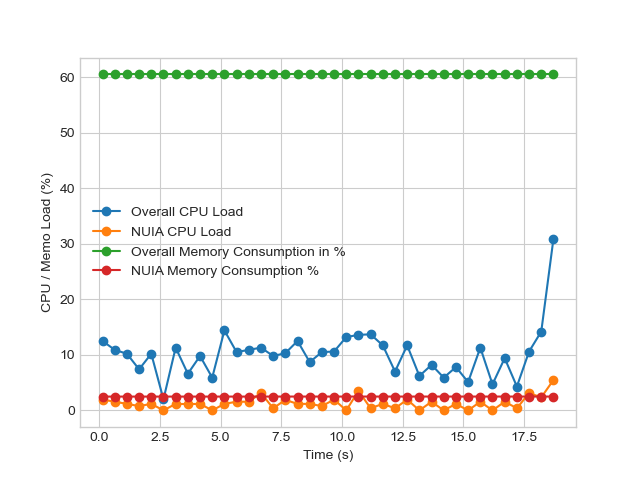
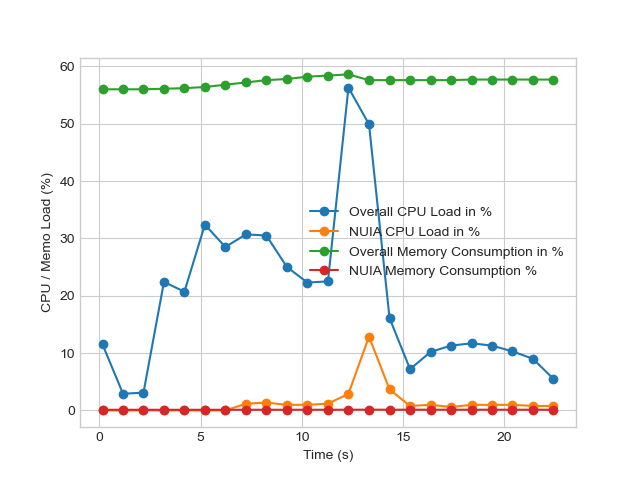
add tokenizer to whitelist

diff --git a/performanceTool.py b/performanceTool.py
@@ -20,7 +20,7 @@ import time
 
 import multiprocessing
 import threading
-from scipy.integrate._ivp.radau import TI
+#from scipy.integrate._ivp.radau import TI
 
 multiprocessing.freeze_support() #workaround because if you do a py to exe, this bit goes in an infinite loop
 
@@ -93,8 +93,8 @@ class processMonitor():
                 
         try: self.pid=ls[0].pid
         except:
-             print(' NUIA is not running, start NUIA')
-             sys.exit()
+            print(' NUIA is not running, start NUIA')
+            sys.exit()
     
     def processor_info(self):
         #returns properties of cpu
@@ -111,27 +111,15 @@ class processMonitor():
     def memo_util(self):  
         #return memo utilitzation
         print("rrs")
-       
-def a():
-    print("Function a is running at time: " + str(int(time.time())) + " seconds.")
-    x=1+2;
-    
-    
-def b():
-    print("Function b is running at time: " + str(int(time.time())) + " seconds.")
-    y=2+2;
-    z=3-4
-    for i in range(100):
-        z=z+1
-    
+
 def maketotCpuArray(p,totCpuArr):
-    totCpuArr.append(psutil.cpu_percent(interval=0.5,percpu=False))
+    totCpuArr.append(psutil.cpu_percent(interval=1,percpu=False))
 
 #    return totCpuArr
 
 def makeprocCpuArray(p,procCpuArr):
 
-    procCpuArr.append(p.cpu_percent(interval=0.5)/psutil.cpu_count())
+    procCpuArr.append(p.cpu_percent(interval=1)/psutil.cpu_count())
     
 class loadStats():    
     def __init__(self,procObj):
@@ -146,7 +134,7 @@ class loadStats():
         
         start_time=time.time()
 
-        print("******************* Started Logging CPU/Memo laods !!, Hold q to Exit *****************")
+        print("******************* Started Logging CPU/Memo loads !!, Hold q to Exit *****************")
         procCpuArr=[]
         totCpuArr=[]
         procMemArr=[]
@@ -156,28 +144,24 @@ class loadStats():
     
             try:
                 if keyboard.is_pressed('q'):  # if key 'q' is pressed 
-                   raise KeyboardInterrupt
+                    raise KeyboardInterrupt
 #                 current_time = time.time()
 #                 elapsed_time = current_time - start_time
     #             print(psutil.cpu_percent(interval=1,percpu=False))
-                print("\nohne threading")
-                b();
-                a();
+
 #               threading.Thread(target=a).start()#for checking threading
 #                threading.Thread(target=b).start()
 
                 timeArr.append(time.time()-start_time)
 
 #                threading.Thread(target=print((psutil.cpu_percent(interval=None,percpu=True)))).start()
-#                 time.sleep(0.25) 
+#                 time.sleep(0.5) 
                 p1 = threading.Thread(target=makeprocCpuArray,args=(p, procCpuArr))
                 p1.start()
                 p2 = threading.Thread(target=maketotCpuArray,args=(p,totCpuArr))
                 p2.start()
                 p1.join()
                 p2.join()
-#                threading.Thread(target=makeprocCpuArray,args=(p, procCpuArr)).start()
-#                threading.Thread(target=maketotCpuArray,args=(p,totCpuArr)).start()
 #                totCpuArr.append(psutil.cpu_percent(interval=None,percpu=False))
 #                procCpuArr.append(p.cpu_percent(interval=0.5)/psutil.cpu_count())
 
@@ -196,9 +180,9 @@ class loadStats():
             except KeyboardInterrupt:
                 print('Exitting Program Now !!')
                 break;
-#            except: #catchall exception
-#                print("Program not running anymore or exitted prematurely ! ")
-#                break;
+            except: #catchall exception
+                print("Program not running anymore or exitted prematurely ! ")
+                break;
     #         raise KeyboardInterrupt 
     #        print("keyboard CAUGHT!!!")
         #for Item in procCpuArr: print(Item.rjust(8), sep='/n')
@@ -228,21 +212,21 @@ print(x.pid)
 
 y=loadStats(x);
 z=y.getAllLoadStats(x)
-print("Overall CPU Load : ")
+print("Overall CPU Load in %: ")
 print(z.overallCpu);
-print("NUIA CPU Load : ")
+print("NUIA CPU Load in %: ")
 print(z.procCpu);
-print("Overall Memo Load : ")
+print("Overall Memo Load in %: ")
 print(z.overallMemo);
-print("NUIA Memo Load : ")
+print("NUIA Memo Load in %: ")
 print(z.procMemo)
 print("Time axis (in seconds) ")
 print(z.timeArr)
 
 pprint_ntuple(psutil.virtual_memory())
 
-print("\nAverage Overall CPU load %f"%np.mean(z.overallCpu))
-print("Average NUIA CPU load %f"%np.mean(z.procCpu))
+print("\nAverage Overall CPU load %f %%"%np.mean(z.overallCpu))
+print("Average NUIA CPU load %f %%"%np.mean(z.procCpu))
 
 print("\nLength of overall cpu load = %d "%len(z.overallCpu)) 
 print("Length of process cpu load = %d "%len(z.procCpu)) 
@@ -254,11 +238,12 @@ print("Length of time array = %d "%len(z.timeArr))
 # print(t)
 
 
-input("Press ENTER to show GRAPH !")
+#input("Press ENTER to show GRAPH !")
+print("Plotting graphs now!! ************ Exporting console log to 'logfile.log' ***********")
 plt.style.use('seaborn-whitegrid')
 
-plt.plot(z.timeArr, z.overallCpu, marker='o',label='Overall CPU Load');
-plt.plot(z.timeArr, z.procCpu, marker='o',label='NUIA CPU Load');
+plt.plot(z.timeArr, z.overallCpu, marker='o',label='Overall CPU Load in %');
+plt.plot(z.timeArr, z.procCpu, marker='o',label='NUIA CPU Load in %');
 
 plt.plot(z.timeArr, z.overallMemo, marker='o',label='Overall Memory Consumption in %');
 plt.plot(z.timeArr, z.procMemo, marker='o',label='NUIA Memory Consumption %');
@@ -272,18 +257,10 @@ plt.show()
 
 
 #plt.close('all')
-input("Press ENTER to exit !")
+#input("Press ENTER to exit !")
 sys.stdout.log.close()
 # sys.stdout.close()
 
-
-
-
-# print(psutil.process_iter(attrs, ad_value))
-# print(x.cpu_nums);
-# print(x.memo)
-
-# Performance Metric: Something that involves cpu usage, memo usage, overall cpu spikes
 
 
 class generateGraph(): #generate graph from loadStatObj which has all the load stats, refer to the tanzeel bhatti docu

diff --git a/test_graph.py b/test_graph.py
@@ -1,0 +1,98 @@
+import math
+
+import matplotlib.pyplot as plt
+
+class AnnoteFinder(object):
+    """callback for matplotlib to display an annotation when points are
+    clicked on.  The point which is closest to the click and within
+    xtol and ytol is identified.
+    
+    Register this function like this:
+    
+    scatter(xdata, ydata)
+    af = AnnoteFinder(xdata, ydata, annotes)
+    connect('button_press_event', af)
+    """
+
+    def __init__(self, xdata, ydata, annotes, ax=None, xtol=None, ytol=None):
+        self.data = list(zip(xdata, ydata, annotes))
+        if xtol is None:
+            xtol = ((max(xdata) - min(xdata))/float(len(xdata)))/2
+        if ytol is None:
+            ytol = ((max(ydata) - min(ydata))/float(len(ydata)))/2
+        self.xtol = xtol
+        self.ytol = ytol
+        if ax is None:
+            self.ax = plt.gca()
+        else:
+            self.ax = ax
+        self.drawnAnnotations = {}
+        self.links = []
+
+    def distance(self, x1, x2, y1, y2):
+        """
+        return the distance between two points
+        """
+        return(math.sqrt((x1 - x2)**2 + (y1 - y2)**2))
+
+    def __call__(self, event):
+
+        if event.inaxes:
+
+            clickX = event.xdata
+            clickY = event.ydata
+            if (self.ax is None) or (self.ax is event.inaxes):
+                annotes = []
+                # print(event.xdata, event.ydata)
+                for x, y, a in self.data:
+                    # print(x, y, a)
+                    if ((clickX-self.xtol < x < clickX+self.xtol) and
+                            (clickY-self.ytol < y < clickY+self.ytol)):
+                        annotes.append(
+                            (self.distance(x, clickX, y, clickY), x, y, a))
+                if annotes:
+                    annotes.sort()
+                    distance, x, y, annote = annotes[0]
+                    self.drawAnnote(event.inaxes, x, y, annote)
+                    for l in self.links:
+                        l.drawSpecificAnnote(annote)
+
+    def drawAnnote(self, ax, x, y, annote):
+        """
+        Draw the annotation on the plot
+        """
+        if (x, y) in self.drawnAnnotations:
+            markers = self.drawnAnnotations[(x, y)]
+            for m in markers:
+                m.set_visible(not m.get_visible())
+            self.ax.figure.canvas.draw_idle()
+        else:
+            t = ax.text(x, y, " - %s" % (annote),)
+            m = ax.scatter([x], [y], marker='d', c='r', zorder=100)
+            self.drawnAnnotations[(x, y)] = (t, m)
+            self.ax.figure.canvas.draw_idle()
+
+    def drawSpecificAnnote(self, annote):
+        annotesToDraw = [(x, y, a) for x, y, a in self.data if a == annote]
+        for x, y, a in annotesToDraw:
+            self.drawAnnote(self.ax, x, y, a)
+
+
+def onclick(event):
+    print('%s click: button=%d, x=%d, y=%d, xdata=%f, ydata=%f' %
+          ('double' if event.dblclick else 'single', event.button,
+           event.x, event.y, event.xdata, event.ydata))
+
+
+x = range(10)
+y = range(10)
+annotes = ['a', 'b', 'c', 'd', 'e', 'f', 'g', 'h', 'i', 'j']
+
+fig, ax = plt.subplots()
+ax.scatter(x,y)
+af =  AnnoteFinder(x,y, annotes, ax=ax)
+fig.canvas.mpl_connect('button_press_event', af)
+plt.show()            
+
+
+
